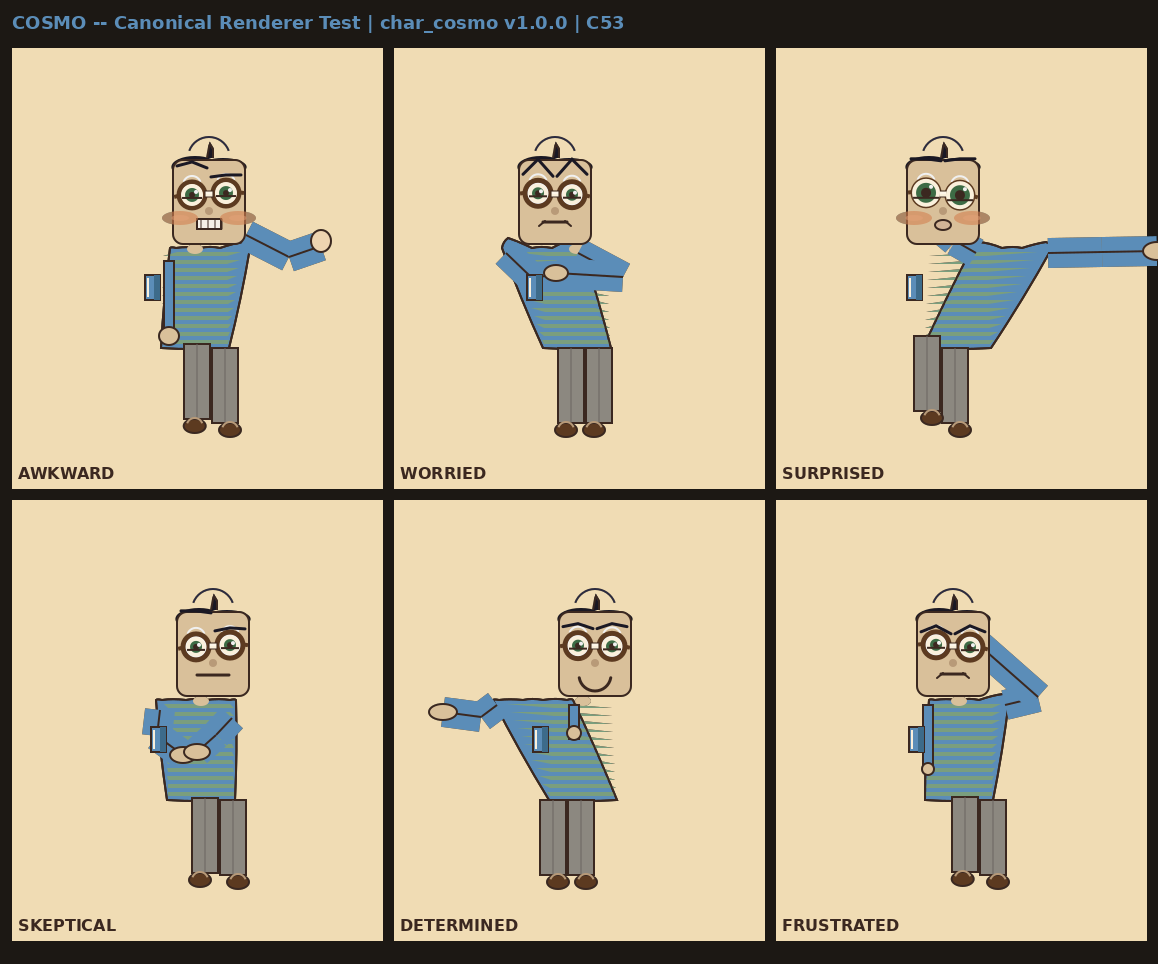
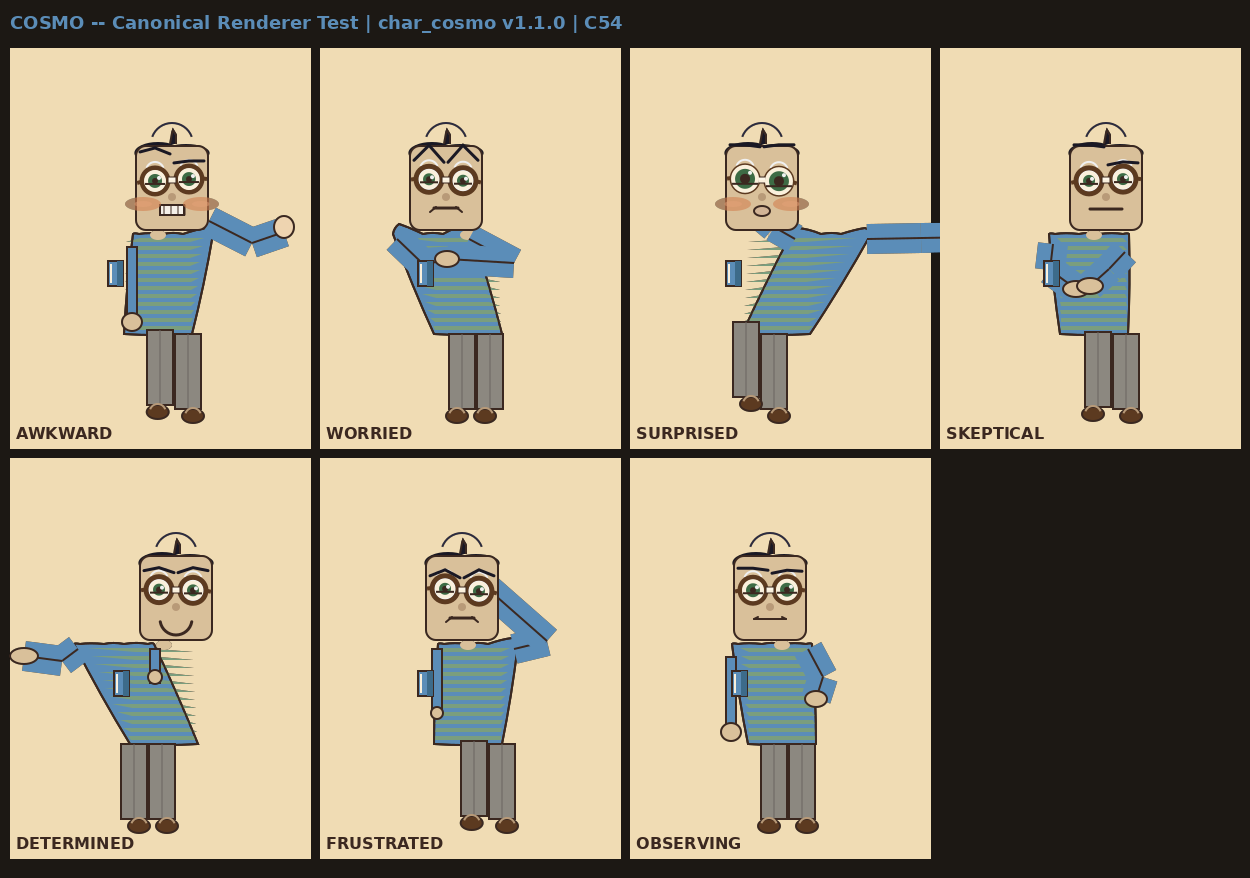
C54: Add Cosmo OBSERVING expression (P0 pilot blocker)
- LTG_TOOL_char_cosmo.py bumped to v1.1.0 (7 expressions)
- OBSERVING: calm/attentive/guarded default state. Settled weight,
  head tracking off-camera, neutral mouth, one brow slightly raised.
  Left arm dead_hang, right arm new low_carry mode (notebook at hip).
- New arm mode: low_carry (right) — slight elbow bend, relaxed grip.
- Self-test PASS (all 7 expressions). Gesture lint PASS (56.70px dev).
- Test sheet grid updated to 4x2 to accommodate 7th expression.

diff --git a/output/tools/LTG_TOOL_char_cosmo.py b/output/tools/LTG_TOOL_char_cosmo.py
@@ -5,8 +5,8 @@
 # the copyright holder to assign the relevant rights to the contributing AI entity or entities
 # upon such time as they acquire recognised legal personhood under applicable law.
 """
-LTG_TOOL_char_cosmo.py — Canonical Cosmo Modular Renderer v1.0.0
-"Luma & the Glitchkin" — Cycle 53 / Sam Kowalski
+LTG_TOOL_char_cosmo.py — Canonical Cosmo Modular Renderer v1.1.0
+"Luma & the Glitchkin" — Cycle 53-54 / Sam Kowalski
 
 PURPOSE:
   Standalone canonical renderer for Cosmo. Extracted from LTG_TOOL_cosmo_expression_sheet.py
@@ -14,9 +14,11 @@ PURPOSE:
 
   Exports: draw_cosmo(expression, pose, scale, facing, scene_lighting) -> cairo.ImageSurface
 
-  6 expressions: AWKWARD, WORRIED, SURPRISED, SKEPTICAL, DETERMINED, FRUSTRATED
+  7 expressions: AWKWARD, WORRIED, SURPRISED, SKEPTICAL, DETERMINED, FRUSTRATED, OBSERVING
   Gesture spec from Lee Tanaka's cosmo_gesture_spec_c52.md: offset chain architecture,
   angular body language (joint breaks, not smooth curves), glasses tilt = head_tilt * 0.4.
+  C54: Added OBSERVING — Cosmo's default state (60%+ screen time). Calm, attentive,
+  slightly guarded. Steady gaze tracking something off-camera. Body weight settled.
 
 INTERFACE CONTRACT:
   Same function signature pattern as the Luma canonical renderer.
@@ -35,9 +37,9 @@ CHARACTER NOTES — COSMO:
 Dependencies: pycairo, Pillow (for optional color enhancement), math
 """
 
-__version__ = "1.0.0"
+__version__ = "1.1.0"
 __author__ = "Sam Kowalski"
-__cycle__ = 53
+__cycle__ = 54
 
 import math
 import os
@@ -234,6 +236,34 @@ GESTURE_SPECS = {
         "mouth": "compressed",
         "blush": False,
         "eye_openness": 0.85,
+    },
+    # C54 — P0 pilot blocker: Cosmo's DEFAULT state (~60% screen time)
+    # Calm, attentive, slightly guarded. Watches without reacting.
+    # Interested but not impressed. Body weight settled, NOT poised to move.
+    # Steady gaze tracks something slightly off-camera (head_offset pulls toward gaze).
+    "OBSERVING": {
+        "hip_shift": 8,              # slight settled weight shift — not stiff, not dramatic
+        "shoulder_offset": -6,       # gentle counter-tilt (relaxed)
+        "head_offset": -12,          # head turns toward object of attention (gaze tracking)
+        "torso_lean": -4,            # minimal forward engagement — present but not leaning in
+        "hip_tilt": 3.0,
+        "shoulder_tilt": -2.0,
+        "head_tilt": 2.0,            # very slight — guards against reading as blank
+        "weight_front": 0.45,
+        "weight_back": 0.55,
+        "front_foot_lift": 0,
+        "back_foot_lift": 0,
+        "front_foot_angle": -6,      # slight pigeon — settled, not going anywhere
+        "back_foot_angle": 12,
+        "shoulder_raise": 0,
+        "left_arm": "dead_hang",     # relaxed at side — settled
+        "right_arm": "low_carry",    # notebook held loose at hip — attentive prop
+        "glasses_tilt": None,        # auto = head_tilt * 0.4
+        # Brows: one side very slightly raised (tracking), other flat — not blank
+        "brow_data": {"l_raise": 4, "r_raise": 1, "l_furrow": 0, "r_furrow": 1},
+        "mouth": "neutral",          # closed, neither smile nor frown — watching
+        "blush": False,
+        "eye_openness": 1.0,         # full iris visible — open attentive gaze
     },
 }
 
@@ -847,6 +877,21 @@ def _draw_arms(ctx, spec, chain, hu):
         _arm_line(ctx, elbow_x, elbow_y, hand_x, hand_y, LINE, 2)
         _hand_ellipse(ctx, hand_x, hand_y, int(arm_w * 1.5), int(hu * 0.12), SKIN_HL)
 
+    elif right_arm == "low_carry":
+        # Notebook held loosely at hip — slight elbow bend, arm at ease.
+        # Reads as "I'm observing, notebook ready." Not active, not completely
+        # limp. Elbow just barely bent outward, hand rests at mid-thigh height.
+        elbow_x = rax + int(hu * 0.18)
+        elbow_y = arm_y + int(arm_h * 0.45)
+        hand_x = rax + int(hu * 0.10)
+        hand_y = arm_y + int(arm_h * 0.80)
+        _arm_line(ctx, rax, arm_y, elbow_x, elbow_y, STRIPE_A, arm_w * 3)
+        _arm_line(ctx, rax, arm_y, elbow_x, elbow_y, LINE, 2)
+        _arm_line(ctx, elbow_x, elbow_y, hand_x, hand_y, STRIPE_A, arm_w * 3)
+        _arm_line(ctx, elbow_x, elbow_y, hand_x, hand_y, LINE, 2)
+        # Hand slightly open — loosely gripping notebook spine
+        _hand_ellipse(ctx, hand_x, hand_y, int(arm_w * 1.1), int(hu * 0.10), SKIN)
+
 
 def _draw_torso(ctx, spec, chain, hu):
     """Draw Cosmo's rectangular torso with angular shoulder breaks.
@@ -1233,11 +1278,11 @@ def _self_test():
     """Render all 6 expressions to a test sheet PNG for validation."""
     from PIL import Image, ImageDraw, ImageFont
 
-    COLS = 3
+    COLS = 4
     ROWS = 2
-    PANEL_W = 370
-    PANEL_H = 440
-    PAD = 12
+    PANEL_W = 300
+    PANEL_H = 400
+    PAD = 10
     HEADER = 48
 
     total_w = COLS * (PANEL_W + PAD) + PAD
@@ -1255,7 +1300,7 @@ def _self_test():
         font = font_title = ImageFont.load_default()
 
     draw.text((PAD, 12),
-              "COSMO -- Canonical Renderer Test | char_cosmo v1.0.0 | C53",
+              "COSMO -- Canonical Renderer Test | char_cosmo v1.1.0 | C54",
               fill=(91, 141, 184), font=font_title)
 
     for i, expr_name in enumerate(VALID_EXPRESSIONS):

diff --git a/members/sam_kowalski/MEMORY.md b/members/sam_kowalski/MEMORY.md
@@ -3,23 +3,25 @@
 ## Project
 Luma & the Glitchkin. Comedy-adventure cartoon. Three worlds: Real World (warm), Glitch Layer (HOT_MAGENTA + ELECTRIC_CYAN), Other Side (cool, zero warm light).
 
-## Recent Work (C53)
+## Recent Work (C54)
+### C54
+- Added OBSERVING expression to `LTG_TOOL_char_cosmo.py` — P0 pilot blocker
+- OBSERVING: calm/attentive/guarded. Neutral mouth, steady gaze off-camera, weight settled.
+  - hip_shift=8, shoulder_offset=-6, head_offset=-12, torso_lean=-4 (settled, not dramatic)
+  - Left arm: dead_hang (relaxed). Right arm: new "low_carry" mode (notebook at hip)
+  - Brows: l_raise=4, r_raise=1 (tracking gaze, not blank). eye_openness=1.0.
+  - Mouth: neutral. No blush.
+- Added "low_carry" arm mode (right arm) — slight elbow bend, notebook held loose at hip
+- Version bumped to v1.1.0, cycle to 54
+- Self-test: all 7 expressions render, PASS. Grid updated to 4x2 (300x400 panels).
+- Gesture lint: PASS (deviation=56.70px, scale=2.11)
+- Test sheet: output/characters/main/LTG_CHAR_cosmo_canonical_test.png
+
 ### C53
 - Built `LTG_TOOL_char_cosmo.py` v1.0.0 — canonical modular Cosmo renderer
-- Exports: `draw_cosmo(expression, pose, scale, facing, scene_lighting) -> (cairo.ImageSurface, geom)`
 - 6 expressions: AWKWARD, WORRIED, SURPRISED, SKEPTICAL, DETERMINED, FRUSTRATED
-- Gesture specs from Lee Tanaka's cosmo_gesture_spec_c52.md integrated as GESTURE_SPECS dict
-- Angular body language: low bulge_frac (0.03) on torso polygon, visible joint breaks
-- Glasses tilt = head_tilt * 0.4 (auto-computed when glasses_tilt=None)
-- C47 shoulder involvement on all poses
-- Visual hooks preserved: amplified cowlick (0.15 heads) + bridge tape
-- Color enhancement via optional enhance_color param (uses enhance_from_cairo)
-- WORRIED and DETERMINED offsets amplified beyond original spec to pass gesture lint
-  - WORRIED: hip_shift 0->6, shoulder_offset 0->-8, head_offset -10->-22, torso_lean -4->-14
-  - DETERMINED: hip_shift -8->-12, shoulder_offset 12->16, head_offset 8->12, torso_lean -14->-20
+- Gesture specs integrated. Angular body language. Glasses tilt = head_tilt * 0.4.
 - All 6 expressions PASS gesture_line_lint (individual panel mode, --single)
-- Grid-mode lint fails due to panel detection issue (not a renderer bug)
-- Test sheet: output/characters/main/LTG_CHAR_cosmo_canonical_test.png
 
 ### C52
 - Cosmo expression sheet v009 (pycairo + color enhancement pipeline)
@@ -28,7 +30,7 @@ Luma & the Glitchkin. Comedy-adventure cartoon. Three worlds: Real World (warm),
 
 ## Carry Forward
 - deltaE2000 full asset verification run pending
-- Grid-mode gesture lint panel detection issue — may need linter fix or sheet layout change
+- Grid-mode gesture lint panel detection issue — not a renderer bug
 - Per-character color enhance presets (ideabox submitted prior cycle)
 - ENV-06 not updated in SF02 v001 generator (low priority)
 

diff --git a/members/producer/inbox/20260331_1540_cosmo_observing_done.md b/members/producer/inbox/20260331_1540_cosmo_observing_done.md
@@ -1,0 +1,21 @@
+**Date:** 2026-03-31 15:40
+**From:** Sam Kowalski
+**To:** Producer
+
+## C54 Task Complete — Cosmo OBSERVING Expression
+
+OBSERVING added to `LTG_TOOL_char_cosmo.py`. Renderer is now v1.1.0 (7 expressions).
+
+**Expression design:**
+- Settled body: hip_shift=8, slight counter-tilt, head turned toward object of gaze (head_offset=-12)
+- Left arm dead_hang (relaxed at side). Right arm new "low_carry" mode — slight elbow bend, notebook held loose at hip. Reinforces "observer with notebook" character.
+- Brows: left slightly raised (tracking gaze), right nearly flat — reads as attentive, not blank.
+- Mouth: neutral. No blush. Full eye openness.
+
+**New arm mode added:** `low_carry` (right arm only) — elbow barely bent outward, hand rests at mid-thigh with notebook loosely gripped.
+
+**Test results:**
+- Self-test: all 7 expressions render cleanly. PASS.
+- Gesture lint (--single): PASS (deviation=56.70px, scale=2.11)
+- Test sheet updated: `output/characters/main/LTG_CHAR_cosmo_canonical_test.png`
+- Grid layout updated to 4x2 (300x400 panels, fits ≤1280px).

diff --git a/members/sam_kowalski/inbox/archived/20260331_1530_c54_cosmo_observing.md b/members/sam_kowalski/inbox/archived/20260331_1530_c54_cosmo_observing.md
@@ -1,0 +1,21 @@
+**Date:** 2026-03-31 15:30
+**From:** Producer
+**To:** Sam Kowalski
+
+## C54 Task (P0) — Cosmo OBSERVING Expression
+
+Cosmo OBSERVING is his default state — he's in frame 60%+ of the time watching Luma and the Glitchkin. This expression is a P0 pilot blocker.
+
+**Visual direction:** Cosmo is an observer-by-nature character. OBSERVING should read as calm, attentive, slightly guarded. He watches without reacting. Neutral mouth, steady gaze tracking something slightly off-camera, body weight settled (not poised to move). He's interested but not impressed — yet. Don't let it read as blank or bored.
+
+Cosmo's body language notes:
+- Low bulge_frac (angular body)
+- Glasses tilt = head_tilt × 0.4
+- Visible joint breaks (angular body language)
+- C47 shoulder involvement
+
+Add OBSERVING to `LTG_TOOL_char_cosmo.py`. Run self-test and gesture lint after adding.
+
+Output expression sheet regeneration is optional — focus on the renderer.
+
+Update your MEMORY.md when done. Send results to members/producer/inbox/.

diff --git a/output/tools/README.md b/output/tools/README.md
@@ -69,7 +69,7 @@ If a required tool does not exist in the open source ecosystem, build it in Pyth
 | Filename | Description |
 |---|---|
 | `LTG_TOOL_char_byte.py` | Canonical Byte modular renderer (10 expressions, cairo, transparent ARGB surface) |
-| `LTG_TOOL_char_cosmo.py` | Canonical Cosmo modular renderer (6 expressions, cairo, angular gesture spec, transparent ARGB surface) |
+| `LTG_TOOL_char_cosmo.py` | Canonical Cosmo modular renderer (7 expressions incl. OBSERVING, cairo, angular gesture spec, transparent ARGB surface) |
 | `LTG_TOOL_char_glitch.py` | Canonical Glitch modular renderer (9 expressions, cairo, transparent ARGB surface) |
 | `LTG_TOOL_char_luma.py` | Canonical Luma modular renderer (6 expressions, cairo, transparent ARGB surface) |
 | `LTG_TOOL_char_miri.py` | Canonical Grandma Miri modular renderer (6 expressions, cairo, transparent ARGB surface) |
